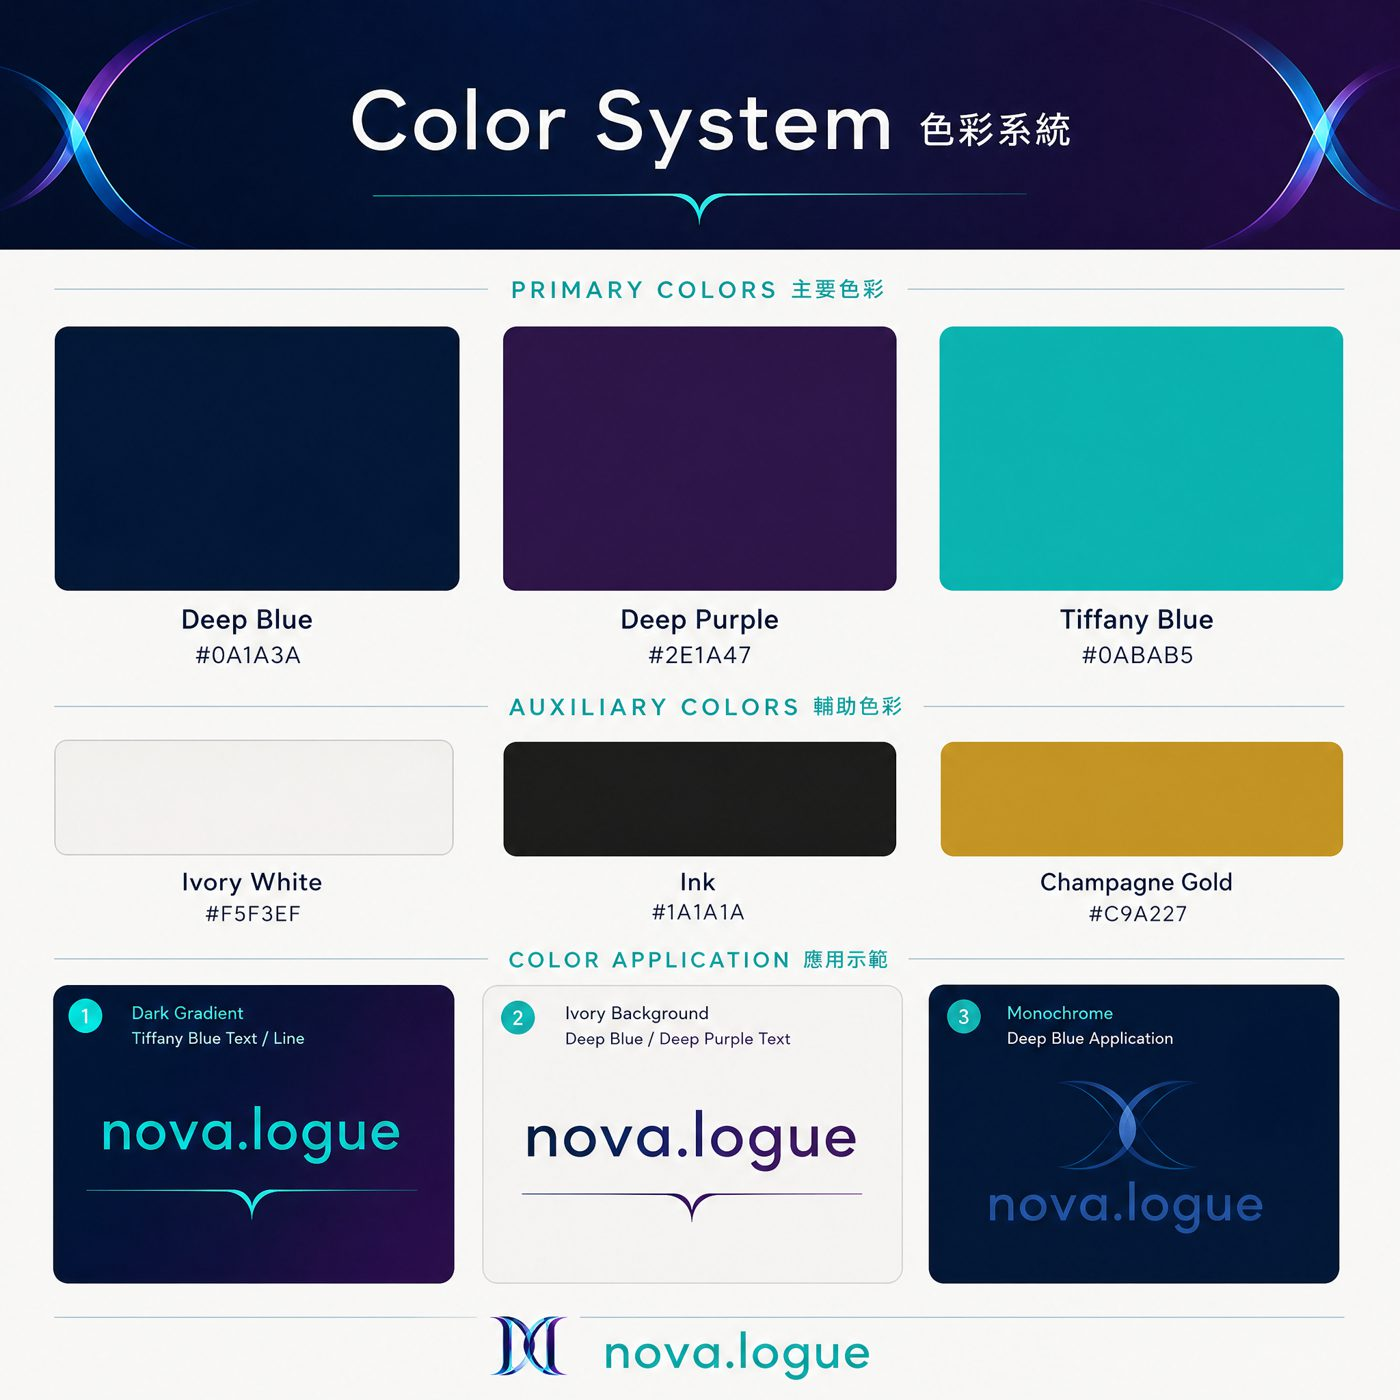
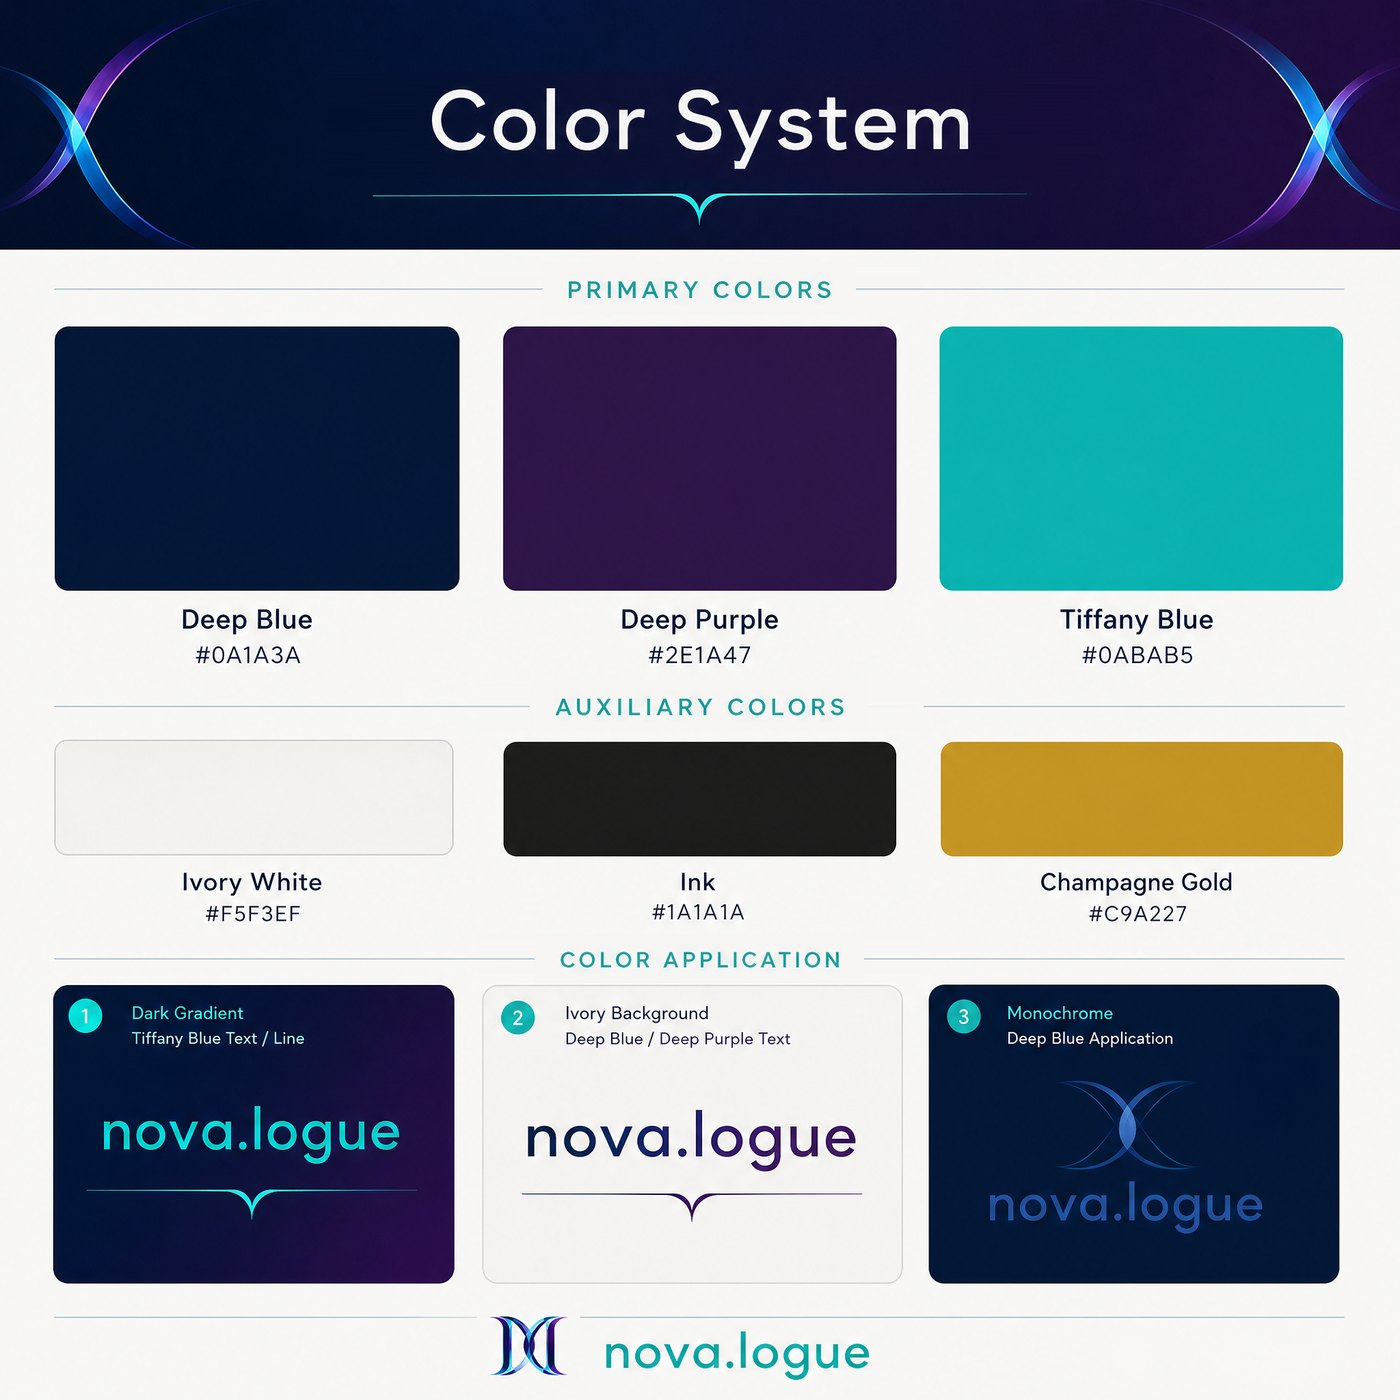
nova.logue: English-only color system and visual language images
Swap in versions of the two brand sheets with the Chinese labels
removed, matching the rest of the English site. Version the image URLs
so cached copies refresh.

diff --git a/index.html b/index.html
@@ -554,8 +554,8 @@
                     <li><strong>Visual language &amp; pattern.</strong> Flow lines, glowing nodes and grid patterns that carry the bridge idea across every touchpoint.</li>
                 </ul>
                 <div class="brand-grid">
-                    <figure><img src="picture/web/brand/color.jpg" alt="nova.logue color system" loading="lazy"><figcaption>Color system</figcaption></figure>
-                    <figure><img src="picture/web/brand/visual.jpg" alt="nova.logue visual language" loading="lazy"><figcaption>Visual language</figcaption></figure>
+                    <figure><img src="picture/web/brand/color.jpg?v=en" alt="nova.logue color system" loading="lazy"><figcaption>Color system</figcaption></figure>
+                    <figure><img src="picture/web/brand/visual.jpg?v=en" alt="nova.logue visual language" loading="lazy"><figcaption>Visual language</figcaption></figure>
                 </div>
                 <a href="https://www.instagram.com/nova.logue0818/" target="_blank" rel="noopener" class="btn btn-solid modal-cta"><i class="fa-brands fa-instagram"></i> Follow @nova.logue0818</a>
             </div>
